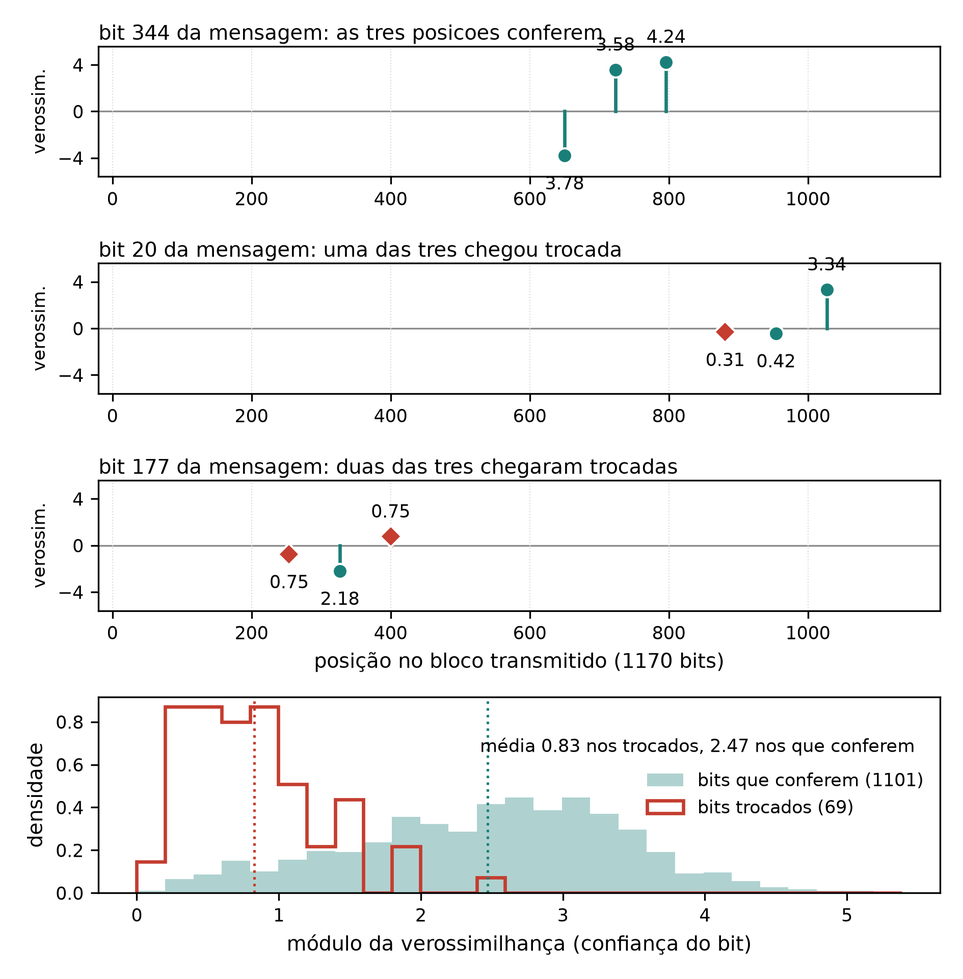
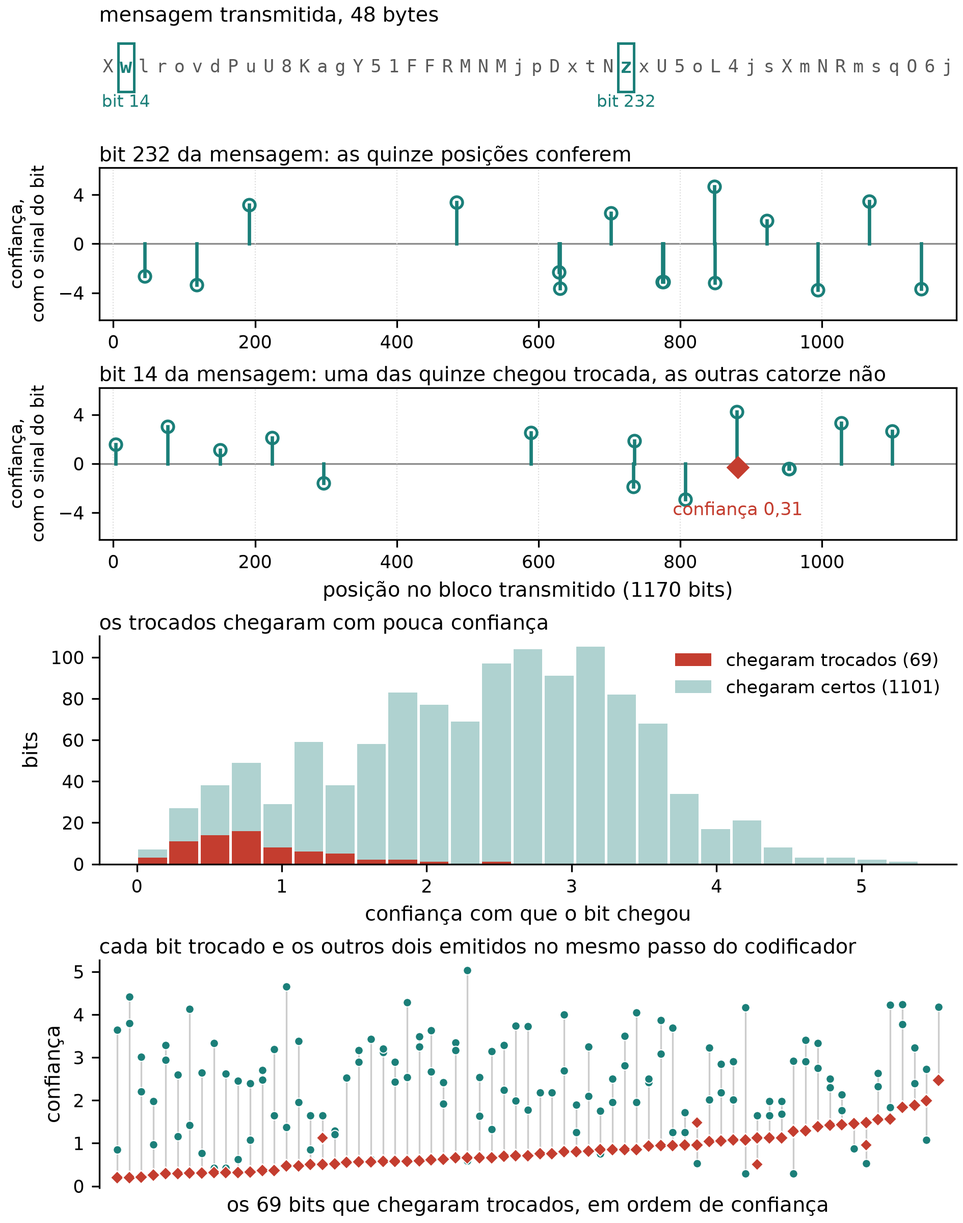
artigo: a figura da correção rastreia as quinze posições, e o texto perde o jargão
A Figura 8 mostrava três posições por bit da mensagem e sugeria que a evidência
sobre aquele bit eram três bits. São quinze: o bit fica na janela por sete
passos e, em cada passo, um subconjunto diferente das três saídas depende dele
(3, 2, 3, 2, 1, 1 e 3, somando quinze). A figura passa a mostrar as quinze, com
marcadores vazados para que posições coladas não se fundam, rótulo só no bit
trocado e vírgula decimal.

O painel dos 69 bits trocados foi para a largura toda, com os dois bits emitidos
no mesmo passo acima de cada um, sem eixo horizontal numerado. O painel de
distribuição volta a ser um histograma só, dos 1170 bits, com a parcela trocada
na base para que as barras vermelhas partam todas do zero.

No texto, a confiança deixa de ser apresentada como propriedade de um trio: ela
é o peso de cada bit recebido quando o decodificador compara hipóteses de
mensagem inteira. O entrelaçador é descrito pelo que faz, escrita em linhas de
dezesseis colunas e leitura por colunas, passo fixo de 73 posições, e não como
embaralhamento.

Limpeza de linguagem pedida pelo autor: saem "sai de graça", "não comprou nada",
"deixa de ser alavanca", "não é peça de museu", "retrocompatibilidade",
"pare-e-espere" e as aberturas que negam antes de apresentar. "Semente" vira
sequência pseudoaleatória ou valor inicial. "Banda" vira "faixa" em todo o
corpo. O parágrafo do prolongamento do som perde a discussão de origem, que
respondia a uma objeção que ninguém fez.
[…]

diff --git a/resultados/14-FEC-REP/figuras/figura_fec_rastro.py b/resultados/14-FEC-REP/figuras/figura_fec_rastro.py
@@ -5,9 +5,20 @@ esquema: cada bit da mensagem entra no codificador e faz sair tres bits, e o
 entrelacamento espalha esses tres pelo bloco. Aqui os tres sao seguidos ate a
 posicao em que foram transmitidos e ate a verossimilhanca com que chegaram.
 
-Tres casos, escolhidos por regra e nao a mao: o bit limpo cuja pior das tres
-confiancas e a maior do bloco, o primeiro bit com uma das tres trocadas, e o
-primeiro com duas trocadas (so tres bits do bloco tem duas).
+Dois casos, escolhidos por regra e nao a mao: o bit limpo cuja pior das tres
+confiancas e a maior do bloco, e o primeiro bit com uma das tres trocadas. O
+caso de duas trocadas foi tirado a pedido do autor: existe no bloco (tres bits
+o tem) mas confunde mais do que mostra, porque o leitor ja entendeu o desempate
+no caso anterior.
+
+A faixa de cima existe para nao se perder a mensagem de vista: os 48 bytes
+transmitidos, com os dois bytes de onde saem os bits seguidos marcados.
+
+Cada bit da mensagem aparece em QUINZE posicoes transmitidas, nao tres: ele
+fica na janela por sete passos e, em cada passo, um subconjunto diferente das
+tres saidas depende dele (3, 2, 3, 2, 1, 1 e 3 saidas, somando quinze). A
+versao anterior desta figura mostrava so as tres do passo em que o bit entra,
+o que sugeria que a evidencia sobre ele eram tres bits. Nao sao.
 
 CUIDADO com o que a figura afirma. No passo em que o bit entra, o codificador
 emite tres bits, e os tres dependem dele e dos seis anteriores. O bit continua
@@ -55,17 +66,41 @@ def carrega():
     return payload, tx, rx
 
 
+# Quais das tres saidas dependem da posicao j+1 da janela. Vem dos proprios
+# polinomios: a saida usa a posicao se o bit correspondente estiver ligado.
+def _saidas_por_posicao():
+    tabela = []
+    for j in range(fec.K):
+        quais = [i for i, poly in enumerate(fec.POLYS_R13)
+                 if (poly >> (fec.K - 1 - j)) & 1]
+        tabela.append(quais)
+    return tabela
+
+
 def rastro(payload, tx, rx):
-    """Para cada bit da mensagem, as tres posicoes transmitidas e o que chegou."""
+    """Para cada bit da mensagem, TODAS as posicoes que dependem dele.
+
+    Um bit fica na janela por sete passos. Em cada passo saem tres bits, e
+    quais deles dependem dele muda conforme a posicao que ele ocupa. Somando,
+    sao quinze posicoes, e nao as tres do passo em que ele entrou.
+    """
     n = len(tx)
     idx = fec.interleave_index(n, 16)      # transmitido[p] = codificado[idx[p]]
     pos = np.zeros(n, dtype=int)
     pos[idx] = np.arange(n)                # pos[c] = posicao transmitida
     errado = (rx > 0).astype(np.int8) != tx
+    por_posicao = _saidas_por_posicao()
+    passos = n // len(fec.POLYS_R13)
     linhas = []
     for k in range(len(payload) * 8):
-        ps = [int(pos[3 * k + i]) for i in range(3)]
-        linhas.append((k, ps, [float(rx[p]) for p in ps], [bool(errado[p]) for p in ps]))
+        ps = []
+        for j, quais in enumerate(por_posicao):
+            passo = k + j
+            if passo >= passos:
+                continue
+            ps += [int(pos[3 * passo + i]) for i in quais]
+        linhas.append((k, ps, [float(rx[p]) for p in ps],
+                       [bool(errado[p]) for p in ps]))
     return linhas, errado
 
 
@@ -76,54 +111,134 @@ def escolhe(linhas):
     casos = [max(limpos, key=lambda r: min(abs(v) for v in r[2]))]
     if um:
         casos.append(um[0])
-    if dois:
-        casos.append(dois[0])
     return casos
 
 
-def desenha(casos, rx, tx, errado, n):
-    fig, eixos = plt.subplots(len(casos) + 1, 1, figsize=(6.3, 6.4),
-                              gridspec_kw={'height_ratios': [1] * len(casos) + [1.5]})
-    for eixo, (k, ps, vs, es) in zip(eixos, casos):
+def faixa_mensagem(eixo, payload, casos):
+    """Os 48 bytes como texto, com os bytes dos bits seguidos em destaque."""
+    texto = payload.decode('ascii', 'replace')
+    destaque = {k // 8 for k, _, _, _ in casos}
+    for i, ch in enumerate(texto):
+        marcado = i in destaque
+        eixo.text(i + 0.5, 0.42, ch, ha='center', va='center',
+                  fontsize=8.5 if not marcado else 9.5,
+                  color='0.35' if not marcado else CONFERE,
+                  fontweight='normal' if not marcado else 'bold',
+                  family='monospace')
+        if marcado:
+            eixo.add_patch(plt.Rectangle((i + 0.06, 0.08), 0.88, 0.68,
+                                         fill=False, ec=CONFERE, lw=1.2))
+    for k, _, _, _ in casos:
+        eixo.annotate(f'bit {k}', (k // 8 + 0.5, 0.05), ha='center', va='top',
+                      fontsize=8, color=CONFERE)
+    eixo.set_xlim(0, len(texto))
+    eixo.set_ylim(-0.5, 1.0)
+    eixo.axis('off')
+    eixo.set_title('mensagem transmitida, 48 bytes', fontsize=9.5, loc='left', pad=2)
+
+
+def companheiros(rx, tx, errado, n):
+    """Para cada bit trocado, a confianca dele e a dos dois companheiros.
+
+    Companheiros sao os outros dois bits emitidos no mesmo passo do
+    codificador, isto e, pelo mesmo bit da mensagem.
+    """
+    idx = fec.interleave_index(n, 16)
+    pos = np.zeros(n, dtype=int)
+    pos[idx] = np.arange(n)
+    mag = np.abs(rx)
+    saida = []
+    for p in np.where(errado)[0]:
+        c = idx[p]
+        k = c // 3
+        outros = [pos[3 * k + i] for i in range(3) if 3 * k + i != c]
+        saida.append((float(mag[p]),
+                      [(float(mag[q]), bool(errado[q])) for q in outros]))
+    return sorted(saida, key=lambda r: r[0])
+
+
+def desenha(casos, rx, tx, errado, n, payload):
+    fig = plt.figure(figsize=(6.3, 8.0), layout='constrained')
+    grade = fig.add_gridspec(len(casos) + 3, 1,
+                             height_ratios=[0.7] + [1] * len(casos) + [1.5, 1.5])
+    eixos = [fig.add_subplot(grade[0, :])]
+    for i in range(len(casos)):
+        eixos.append(fig.add_subplot(grade[i + 1, :]))
+    eixos.append(fig.add_subplot(grade[-2, :]))
+    eixo_disp = fig.add_subplot(grade[-1, :])
+    faixa_mensagem(eixos[0], payload, casos)
+    for eixo, (k, ps, vs, es) in zip(eixos[1:], casos):
         eixo.axhline(0, color='0.55', lw=0.8, zorder=1)
         for p, v, e in zip(ps, vs, es):
             cor = DISCORDA if e else CONFERE
             eixo.plot([p, p], [0, v], color=cor, lw=1.6, zorder=2)
-            eixo.plot([p], [v], marker='D' if e else 'o', color=cor, ms=7,
-                      mec='white', mew=1.0, zorder=3)
-            eixo.annotate(f'{abs(v):.2f}', (p, v), textcoords='offset points',
-                          xytext=(0, 9 if v > 0 else -16), ha='center', fontsize=8.5)
+            eixo.plot([p], [v], marker='D' if e else 'o',
+                      color=cor if e else 'none',
+                      mec=DISCORDA if e else CONFERE,
+                      ms=6.5 if e else 5.5, mew=1.3, zorder=3)
+            if e:
+                texto = f'confiança {abs(v):.2f}'.replace('.', ',')
+                eixo.annotate(texto, (p, v), textcoords='offset points',
+                              xytext=(0, -16), ha='center', va='top',
+                              fontsize=8.5, color=DISCORDA)
         erros = sum(es)
-        rotulo = {0: 'as tres posicoes conferem',
-                  1: 'uma das tres chegou trocada',
-                  2: 'duas das tres chegaram trocadas'}[erros]
-        eixo.set_title(f'bit {k} da mensagem: {rotulo}', fontsize=9.5, loc='left', pad=3)
+        rotulo = ('as quinze posições conferem' if erros == 0
+                  else 'uma das quinze chegou trocada, as outras catorze não'
+                  if erros == 1
+                  else f'{erros} das quinze chegaram trocadas')
+        eixo.set_title(f'bit {k} da mensagem: {rotulo}', fontsize=9.5,
+                       loc='left', pad=3)
         eixo.set_xlim(-20, n + 20)
-        eixo.set_ylim(-5.6, 5.6)
+        eixo.set_ylim(-6.2, 6.2)
         eixo.set_yticks([-4, 0, 4])
-        eixo.set_ylabel('verossim.', fontsize=8.5)
+        eixo.set_ylabel('confiança,\ncom o sinal do bit', fontsize=8.5)
         eixo.tick_params(labelsize=8.5)
         eixo.grid(axis='x', color='0.85', lw=0.5, ls=':')
-    eixos[len(casos) - 1].set_xlabel('posição no bloco transmitido (1170 bits)', fontsize=9.5)
+    eixos[len(casos)].set_xlabel('posição no bloco transmitido (1170 bits)', fontsize=9.5)
 
     eixo = eixos[-1]
-    mag_err = np.abs(rx[errado])
-    mag_ok = np.abs(rx[~errado])
-    faixas = np.linspace(0, max(mag_ok.max(), mag_err.max()), 28)
-    eixo.hist(mag_ok, bins=faixas, density=True, color=CONFERE, alpha=0.35,
-              label=f'bits que conferem ({(~errado).sum()})')
-    eixo.hist(mag_err, bins=faixas, density=True, histtype='step', lw=1.6,
-              color=DISCORDA, label=f'bits trocados ({errado.sum()})')
-    eixo.axvline(mag_err.mean(), color=DISCORDA, ls=':', lw=1.2)
-    eixo.axvline(mag_ok.mean(), color=CONFERE, ls=':', lw=1.2)
-    eixo.set_xlabel('módulo da verossimilhança (confiança do bit)', fontsize=9.5)
-    eixo.set_ylabel('densidade', fontsize=9.5)
+    mag = np.abs(rx)
+    faixas = np.linspace(0, float(mag.max()) + 0.01, 26)
+    n_ok, _ = np.histogram(mag[~errado], bins=faixas)
+    n_err, _ = np.histogram(mag[errado], bins=faixas)
+    centros = (faixas[:-1] + faixas[1:]) / 2
+    largura = (faixas[1] - faixas[0]) * 0.92
+    eixo.bar(centros, n_err, width=largura, color=DISCORDA,
+             label=f'chegaram trocados ({errado.sum()})')
+    eixo.bar(centros, n_ok, width=largura, bottom=n_err, color=CONFERE,
+             alpha=0.35, label=f'chegaram certos ({(~errado).sum()})')
+    eixo.set_xlabel('confiança com que o bit chegou', fontsize=9.5)
+    eixo.set_ylabel('bits', fontsize=9.5)
     eixo.tick_params(labelsize=8.5)
-    eixo.legend(frameon=False, fontsize=8.5)
-    eixo.annotate(f'média {mag_err.mean():.2f} nos trocados,'
-                  f' {mag_ok.mean():.2f} nos que conferem',
-                  (0.97, 0.72), xycoords='axes fraction', ha='right', fontsize=8.5)
-    fig.tight_layout(h_pad=1.1)
+    eixo.legend(frameon=False, fontsize=8.5, loc='upper right')
+    eixo.spines['top'].set_visible(False)
+    eixo.spines['right'].set_visible(False)
+    eixo.set_title('os trocados chegaram com pouca confiança',
+                   fontsize=9.5, loc='left', pad=3)
+
+    pares = companheiros(rx, tx, errado, n)
+    for i, (conf, outros) in enumerate(pares):
+        alturas = [conf] + [c for c, _ in outros]
+        eixo_disp.plot([i, i], [min(alturas), max(alturas)], color='0.8',
+                       lw=0.8, zorder=1)
+        for c, e in outros:
+            eixo_disp.plot([i], [c], marker='o' if not e else 'D',
+                           color=CONFERE if not e else DISCORDA, ms=4,
+                           mec='white', mew=0.5, zorder=2)
+        eixo_disp.plot([i], [conf], marker='D', color=DISCORDA, ms=4.5,
+                       mec='white', mew=0.5, zorder=3)
+    eixo_disp.set_xlim(-1.5, len(pares) + 0.5)
+    eixo_disp.set_xticks([])
+    eixo_disp.set_xlabel('os 69 bits que chegaram trocados, '
+                         'em ordem de confiança', fontsize=9.5)
+    eixo_disp.set_ylabel('confiança', fontsize=9.5)
+    eixo_disp.tick_params(labelsize=8.5)
+    eixo_disp.spines['top'].set_visible(False)
+    eixo_disp.spines['right'].set_visible(False)
+    eixo_disp.spines['bottom'].set_visible(False)
+    eixo_disp.set_title('cada bit trocado e os outros dois emitidos no mesmo '
+                        'passo do codificador', fontsize=9.5, loc='left', pad=3)
+
     for saida in SAIDAS:
         fig.savefig(saida, dpi=300)
         print('escrito', saida)
@@ -138,7 +253,7 @@ def main():
               f'{[round(abs(v), 2) for v in vs]} trocados {es}')
     print(f'{errado.sum()} de {len(tx)} bits trocados '
           f'({100 * errado.mean():.2f}%)')
-    desenha(casos, rx, tx, errado, len(tx))
+    desenha(casos, rx, tx, errado, len(tx), payload)
 
 
 if __name__ == '__main__':

diff --git a/artigo/artigo_modem.md b/artigo/artigo_modem.md
@@ -141,7 +141,7 @@ renumerei porque as secoes 3 a 5 estao em merge com a versao remota; renumerar d
 
 A modulação por chaveamento na frequência, do inglês *frequency shift keying* (FSK), põe dados num canal de voz comutando a portadora entre duas frequências, uma para cada valor do bit. O padrão Bell 202 fixa essas duas frequências em 1200 e 2200 Hz, com transições a 1200 símbolos por segundo, e foi desenvolvido pela AT&T para a rede telefônica (FINNEGAN; BENSON, 2014). Um canal projetado para conduzir voz passa a conduzir bytes sem que nada no meio precise mudar.
 
-O Bell 202 não é peça de museu. O protocolo de transdutor remoto endereçável em barramento, do inglês *Highway Addressable Remote Transducer* (HART), superpõe um sinal FSK de 1200 bits por segundo à malha de 4 a 20 mA que liga o transmissor de campo ao sistema de controle, sem perturbar o valor analógico que ela já carrega (WU, 2023). A retrocompatibilidade é o que o difundiu, pois o instrumento antigo filtra o sinal digital e continua medindo como antes.
+O Bell 202 permanece em uso industrial. O protocolo de transdutor remoto endereçável em barramento, do inglês *Highway Addressable Remote Transducer* (HART), superpõe um sinal FSK de 1200 bits por segundo à malha de 4 a 20 mA que liga o transmissor de campo ao sistema de controle, sem perturbar o valor analógico que ela já carrega (WU, 2023). O instrumento antigo filtra o sinal digital e continua medindo como antes, o que permitiu instalar o protocolo sem trocar os equipamentos já em campo.
 
 O mesmo princípio vale no ar, e Lopes e Aguiar (2001) já observavam por que quase ninguém o usa assim. A comunicação entre máquinas sempre foi mantida longe do som audível por duas boas razões, a taxa baixa diante do fio e do rádio e o incômodo do som. A contrapartida é que o canal de áudio existe em cada aparelho, o que o torna uma opção barata de transferir informação entre dispositivos próximos, sem instalar nada.
 
@@ -232,17 +232,17 @@ para a 4, que mede a concentracao na metade inferior da banda. -->
 
 Transmitir pelo ar é converter a sequência de amostras em variação de pressão, deixá-la atravessar a sala a 343 m/s e reconvertê-la em amostras do outro lado. Entre um conversor e outro estão o amplificador, o alto-falante, o ar, as superfícies que refletem e o microfone. Esse canal não é plano, não é linear e não é silencioso.
 
-O ruído do ambiente ocupa a mesma banda, vindo do tráfego, de máquinas e da fala, em componentes contínuos e em rajada (PUTZ *et al.*, 2026). Ele também não é plano, e os resultados o medem concentrado na metade inferior da banda, de modo que dois tons não disputam com o mesmo fundo.
+O ruído do ambiente ocupa a mesma faixa de frequência, vindo do tráfego, de máquinas e da fala, em componentes contínuos e em rajada (PUTZ *et al.*, 2026). Ele também não é plano, e os resultados o medem concentrado na metade inferior dessa faixa, de modo que dois tons não disputam com o mesmo fundo.
 
-Um alto-falante e um microfone de uso geral respondem bem na banda da fala e perdem eficiência nos extremos. Colocamos os tons entre 700 e 3325 Hz, dentro dessa região, e mesmo ali a resposta está longe de ser plana, como os resultados mostram.
+Um alto-falante e um microfone de uso geral respondem bem na faixa da fala e perdem eficiência nos extremos. Colocamos os tons entre 700 e 3325 Hz, dentro dessa região, e mesmo ali a resposta está longe de ser plana, como os resultados mostram.
 
-O ultrassom fica fora deste trabalho. Exigir inaudibilidade reduz a banda a menos de 4 kHz, onde o hardware de áudio é seletivo (PUTZ *et al.*, 2026), e a absorção do ar cresce com a frequência e encurta o alcance.
+O ultrassom fica fora deste trabalho. Exigir inaudibilidade reduz a faixa disponível a menos de 4 kHz, onde o hardware de áudio é seletivo (PUTZ *et al.*, 2026), e a absorção do ar cresce com a frequência e encurta o alcance.
 
-Dentro da banda o sinal chega ao microfone pelo caminho direto e pelas reflexões nas superfícies da sala, cada uma atrasada pelo percurso que fez. Uma cópia atrasada reforça o som direto em certas frequências e o cancela em outras, conforme a diferença de percurso, e a resposta do canal é um pente de máximos e nulos que a geometria da sala fixa (KUTTRUFF, 2016). Frequências separadas por dezenas de hertz chegam a diferir vários decibéis, e a posição dos nulos muda quando alguém se move, que é a razão de Lopes e Aguiar (2001) não confiarem em muitos níveis de amplitude no ar.
+Dentro dessa faixa o sinal chega ao microfone pelo caminho direto e pelas reflexões nas superfícies da sala, cada uma atrasada pelo percurso que fez. Uma cópia atrasada reforça o som direto em certas frequências e o cancela em outras, conforme a diferença de percurso, e a resposta do canal é um pente de máximos e nulos que a geometria da sala fixa (KUTTRUFF, 2016). Frequências separadas por dezenas de hertz chegam a diferir vários decibéis, e a posição dos nulos muda quando alguém se move, que é a razão de Lopes e Aguiar (2001) não confiarem em muitos níveis de amplitude no ar.
 
 As mesmas reflexões, vistas no tempo, são a reverberação, e enquanto a cauda dura a energia de um símbolo invade o seguinte. Em ambiente fechado o espalhamento chega a dezenas de milissegundos, absorvido por intervalo de guarda (PUTZ *et al.*, 2026). Nesta bancada o som também não cessa junto com a fonte, e os resultados medem o que sobra sem isolar a origem.
 
-A cadeia analógica também não é linear. O cone do alto-falante tem excursão limitada e o amplificador, tensão limitada, então os picos são achatados quando o nível cresce, e o microfone comprime do mesmo modo na outra ponta. A energia retirada dos picos reaparece como harmônicos e intermodulação dentro da própria banda de trabalho, onde nenhum filtro os separa do sinal, e passado esse ponto subir o nível piora a recepção. Não é particularidade desta bancada: Putz *et al.* (2026) mediram distorção não linear na maioria dos aparelhos acima de cerca de 75% do volume máximo.
+A cadeia analógica também não é linear. O cone do alto-falante tem excursão limitada e o amplificador, tensão limitada, então os picos são achatados quando o nível cresce, e o microfone comprime do mesmo modo na outra ponta. A energia retirada dos picos reaparece como harmônicos e intermodulação dentro da própria faixa de trabalho, onde nenhum filtro os separa do sinal, e passado esse ponto subir o nível piora a recepção. Não é particularidade desta bancada: Putz *et al.* (2026) mediram distorção não linear na maioria dos aparelhos acima de cerca de 75% do volume máximo.
 
 Disso decorrem duas exigências. A decisão do receptor não pode depender da amplitude absoluta de nenhum tom, e o nível de operação tem de ser encontrado por medição.
 
@@ -309,7 +309,7 @@ Chamamos M-ária a modulação de ordem $M$, em que cada símbolo é um tom esco
 
 $$R_b = R_s \log_2 M \tag{1}$$
 
-Nela, $R_b$ é a taxa de bits, $R_s$ é a taxa de símbolos em bauds e $M$ é o número de frequências. Subir $M$ é o caminho para subir $R_b$, com a taxa de símbolos presa pela banda e pelas reflexões. Construímos quatro formas, e o que muda entre elas é quanto a decisão depende da amplitude. Elas ocupam as duas famílias que Lopes e Aguiar (2001) já haviam formulado, a de um tom por símbolo e a de $k$ tons simultâneos.
+Nela, $R_b$ é a taxa de bits, $R_s$ é a taxa de símbolos em bauds e $M$ é o número de frequências. Subir $M$ é o caminho para subir $R_b$, com a taxa de símbolos presa pela faixa disponível e pelas reflexões. Construímos quatro formas, e o que muda entre elas é quanto a decisão depende da amplitude. Elas ocupam as duas famílias que Lopes e Aguiar (2001) já haviam formulado, a de um tom por símbolo e a de $k$ tons simultâneos.
 
 A 2-FSK usa os dois tons do padrão Bell 202, 1200 e 2200 Hz, e um bit por símbolo. A 5×2-FSK votada soa cinco pares de tons a cada símbolo, todos carregando o mesmo bit, e a maioria decide.
 
@@ -363,7 +363,7 @@ Nela, $E_k$ é a energia no tom $k$ e $P_k$ é a média corrente dessa energia, 
 
 O relógio das três formas de 100 bauds vem de uma malha de adiantamento e atraso: a cada símbolo o receptor pontua três janelas deslocadas de um oitavo de símbolo, e corrige o instante do seguinte em um trinta e dois avos.
 
-As primeiras 72 amostras de 480 são descartadas como guarda, 15% do símbolo, e a decisão se faz sobre as 408 restantes, onde a cauda do símbolo anterior já não está.
+As primeiras 72 amostras de 480 são descartadas como guarda, 15% do símbolo, e a decisão se faz sobre as 408 restantes, já livres da cauda do símbolo anterior.
 
 O preâmbulo é alternado, porque a malha trava em transições, e a rajada fecha com cauda ociosa, sem a qual o último byte fica preso.
 
@@ -411,9 +411,9 @@ O bloco é localizado por uma palavra de referência de 31 bits, que viaja sem c
 
 Acima do bloco corrigido, o arquivo vai em pacotes de doze bytes de guia, um byte de sincronismo, número de sequência, comprimento, carga de até 255 bytes e dois bytes de verificação de redundância cíclica, do inglês *cyclic redundancy check* (CRC).
 
-O corpo e o CRC são embaralhados por um gerador de semente fixa chaveado pela posição, o que desfaz padrões repetidos que privariam o relógio de transições.
+O corpo e o CRC são somados a uma sequência pseudoaleatória fixa, dependente da posição e idêntica nas duas pontas, o que desfaz padrões repetidos que privariam o relógio de transições.
 
-A retransmissão automática, do inglês *automatic repeat request* (ARQ), é pare-e-espere dirigida pelo receptor, que pede um pacote por vez e descarta o áudio capturado antes de o pedido sair. São até quatro tentativas por pacote, o que não chega vira zeros, que preservam o deslocamento dos bytes seguintes, e um CRC de 32 bits sobre o arquivo decide se ele vale.
+A retransmissão automática, do inglês *automatic repeat request* (ARQ), é dirigida pelo receptor: ele pede um pacote, espera a resposta chegar e só então pede o seguinte, e descarta o áudio capturado antes de o pedido sair. São até quatro tentativas por pacote, o que não chega vira zeros, que preservam o deslocamento dos bytes seguintes, e um CRC de 32 bits sobre o arquivo decide se ele vale.
 
 Acima disso a aplicação vê uma porta serial virtual, sem detecção de erro nenhuma: o modem é a linha burra que o ecossistema serial espera, e quem corrige está abaixo dela.
 
@@ -473,7 +473,7 @@ que cada correcao reconferiu:
   Notacao fixa: "a primeira forma medida" e "a segunda" viraram 5x2-FSK votada e 16-FSK.
 -->
 
-Os ensaios usam duas máquinas na mesma sala, cada uma com alto-falante e microfone próprios. Um cabo serial entre elas automatiza o ensaio e não conduz dado da medida: a carga é gerada dos dois lados a partir de uma semente combinada por ele, e os bytes pontuados viajaram só pelo ar. As gravações das Figuras 4 a 8 usaram o bloco codificado repetido duas vezes.
+Os ensaios usam duas máquinas na mesma sala, cada uma com alto-falante e microfone próprios. Um cabo serial entre elas automatiza o ensaio e não conduz dado da medida: a carga é gerada dos dois lados a partir de um valor inicial combinado por ele, e os bytes pontuados viajaram só pelo ar. As gravações das Figuras 4 a 8 usaram o bloco codificado repetido duas vezes.
 
 A Figura 1 mostra o ruído da sala com o enlace parado, média de quatro gravações de oito segundos em janelas de 50 Hz. O piso não é plano: concentra-se abaixo de 2 kHz e varia 27 dB sob os dezesseis tons da 16-FSK, de −67,6 a −94,8 dBFS. Comparar níveis absolutos entre tons leria essa diferença como sinal, e por isso cada tom é medido contra o próprio piso.
 
@@ -485,7 +485,7 @@ A Figura 2 mostra o que o detector da 16-FSK mede enquanto a máquina transmisso
 ![](figuras/deteccao-tom.png "0.95")
 Figura 2 - Nível nas dezesseis sondas com um tom de 1700 Hz transmitido, contra a sala parada e um seno sintético. O alargamento do pico é da janela de análise.
 
-A Figura 3 mostra uma varredura de 300 a 6000 Hz gravada em seis segundos, e nela o alargamento reaparece como duas diagonais. São o segundo e o terceiro harmônico, em mediana 30,5 e 42,2 dB abaixo da fundamental, frequências que ninguém transmitiu e que dentro da banda de trabalho são indistinguíveis de sinal.
+A Figura 3 mostra uma varredura de 300 a 6000 Hz gravada em seis segundos, e nela o alargamento reaparece como duas diagonais. São o segundo e o terceiro harmônico, em mediana 30,5 e 42,2 dB abaixo da fundamental, frequências que ninguém transmitiu e que dentro da faixa de trabalho são indistinguíveis de sinal.
 
 ![](figuras/varredura.png "0.95")
 Figura 3 - Varredura de 300 a 6000 Hz, em janela de 4096 amostras. As diagonais são o segundo e o terceiro harmônico, e os riscos verticais são sons da sala.
@@ -495,11 +495,11 @@ Essas sombras posicionam os tons. Os dezesseis ocupam de 888 a 3325 Hz espaçado
 O nível ao longo da faixa também não é uniforme. Medido pela mesma varredura em passos de 74 Hz, varia 23,7 dB entre o melhor e o pior ponto, com até 9,4 dB entre pontos vizinhos.
 
 
-Depois que a varredura acaba o nível cai cerca de 36 dB ao longo de meio segundo e alcança o piso da sala por volta de 0,8 s. O desligamento do transmissor leva 10 ms, então a cauda não é dele, e uma gravação só não separa a sala do alto-falante sem fio. É contra essa cauda que existe o intervalo de guarda descartado no início de cada símbolo.
+Depois que a varredura termina o som não cessa junto. O nível cai cerca de 36 dB ao longo de meio segundo e só alcança o piso da sala por volta de 0,8 s. É esse prolongamento que o intervalo de guarda descarta no início de cada símbolo.
 
 A 5×2-FSK votada reparte a decisão entre cinco pares de tons. Cinco frequências soam a cada símbolo, uma por par, cada par decide pelo tom que chegou mais forte, e a maioria dos cinco dá o bit. São cem símbolos por segundo, um bit por símbolo, com os primeiros 15% de cada símbolo descartados como guarda.
 
-A polaridade alterna ao longo da banda. Nos pares de 700, 1540 e 2380 Hz o tom mais grave significa 0, e nos de 1120 e 1960 Hz significa 1, então os dois acordes ficam entrelaçados e com quase a mesma frequência média.
+A polaridade alterna ao longo da faixa. Nos pares de 700, 1540 e 2380 Hz o tom mais grave significa 0, e nos de 1120 e 1960 Hz significa 1, então os dois acordes ficam entrelaçados e com quase a mesma frequência média.
 
 A Figura 4 mostra a energia nas dez frequências em dois símbolos da carga, e quem decide é a comparação dentro de cada par, nunca o nível absoluto. Em trinta símbolos consecutivos da mesma transmissão todos os bits saíram certos, e em vinte e dois deles ao menos um par votou contra os demais.
 
@@ -525,22 +525,24 @@ Figura 7 - O mesmo trecho, com as fronteiras de símbolo que o receptor usou e a
 
 Nas três gravações válidas os 48 bytes chegaram íntegros. Antes da correção de erros o tom detectado coincidiu com o transmitido em 72,5% a 89,5% dos símbolos, e 85,2% a 94,5% dos bits chegaram certos.
 
-Com a cadeia analógica linear o nível deixa de ser alavanca. Variar o ganho do transmissor de 1,00 a 0,25 não moveu a recuperação, e as doze gravações leram de 96% a 98% dos bits. O mesmo corte de nível, na cadeia saturada, separou uma gravação íntegra de três de todas as três.
+Com a cadeia analógica linear o nível de transmissão deixa de influir. Variar o ganho do transmissor de 1,00 a 0,25 não alterou a recuperação, e as doze gravações leram de 96% a 98% dos bits. O mesmo corte de nível, na cadeia saturada, alterou o resultado de uma gravação íntegra em três para as três.
 
-Para cada bit da mensagem o transmissor emite três, calculados a partir dele e dos seis anteriores. O receptor não decide bit a bit: entre as sequências que o codificador poderia ter produzido, escolhe a mais provável diante do que chegou, pesando cada bit pela confiança com que o demodulador o entregou.
+O transmissor mantém uma janela com os sete últimos bits da mensagem e, a cada bit que entra nela, emite três, cada um a soma módulo dois de um recorte diferente dessa janela. O que viaja pelo ar são esses três, e não os bits da mensagem. A janela desliza de um em um, então cada bit da mensagem permanece nela por sete passos e deixa marca em quinze bits emitidos, sempre misturado aos vizinhos. É um código convolucional de comprimento de restrição sete e taxa um terço, com polinômios geradores 171, 133 e 165 em octal, padronizados para uso espacial e adotados em telefonia celular e em redes locais sem fio. (CITAR: códigos convolucionais, Elias; padronização CCSDS; uso em GSM e 802.11)
 
-A Figura 8 acompanha três bits da mensagem até as posições onde eles foram transmitidos. Cada bit que entra no codificador faz sair três, e o entrelaçamento os afasta, de modo que as três posições ficam a setenta e três bits uma da outra e nenhuma perturbação curta atinge mais de uma. No primeiro bit as três chegaram certas e confiantes. No segundo uma delas chegou trocada, com módulo 0,31 contra 3,34 da mais forte. No terceiro duas das três chegaram trocadas, ambas rentes ao zero. Os três bits saíram corretos.
+O receptor refaz o caminho do codificador para as hipóteses possíveis, compara o que cada uma teria emitido com o que chegou, acumula o custo das discordâncias e descarta as hipóteses que já perderam. Ao fim fica com a de menor custo. Trocar um bit da mensagem muda quinze bits emitidos, então uma hipótese errada discorda em quinze lugares para explicar um erro em um. É o algoritmo de Viterbi, e o custo de cada discordância é a confiança com que o bit chegou, o que se chama decisão suave. (CITAR: Viterbi 1967; decodificação de decisão suave)
+
+A Figura 8 acompanha dois bits da mensagem até as quinze posições que dependem de cada um. O entrelaçador escreve os bits codificados em linhas de dezesseis colunas e os lê por colunas, o que separa posições consecutivas do código por 73 lugares no ar, passo fixo e conhecido das duas pontas. Uma perturbação curta atinge no máximo uma ou duas das quinze. No primeiro bit as quinze chegaram certas; no segundo, uma chegou trocada e fraca, confiança 0,31 contra 4,23 da mais forte. Os dois bits saíram corretos.
 
 ![](figuras/fec-rastro.png "0.95")
-Figura 8 - Os três bits emitidos por um bit da mensagem, seguidos até a verossimilhança com que chegaram, com losango no que chegou trocado. Abaixo, o módulo da verossimilhança nos 69 trocados e nos 1101 que conferem.
+Figura 8 - As quinze posições transmitidas que dependem de um bit da mensagem, com a confiança com que cada uma chegou; losango marca a que chegou trocada. No meio, os 1170 bits distribuídos pela confiança com que chegaram, com a parcela trocada destacada. Embaixo, cada um dos 69 bits trocados ao lado dos outros dois emitidos no mesmo passo do codificador, em ordem de confiança.
 
-Sobre esses 48 bytes, que ocupam 1170 bits no ar, sessenta e nove chegaram trocados, 5,9%, e a mensagem saiu idêntica. O painel inferior mostra por quê: os trocados chegaram com módulo médio de 0,83 contra 2,47 nos que conferem, ou seja, o erro se concentra onde o demodulador já tinha pouca certeza, e é essa diferença que o decodificador usa. O decodificador não decide cada bit olhando apenas as três posições da figura, e sim escolhe o caminho inteiro que melhor explica o bloco; as três posições são por onde aquele bit entrou nessa conta.
+Desses 1170 bits, sessenta e nove chegaram trocados, 5,9%, e a mensagem saiu idêntica. O erro se concentra na baixa confiança: abaixo de 0,5 quatro em cada dez estão trocados, acima de 2 é um em 763. A confiança é o peso de cada bit recebido na comparação entre hipóteses de mensagem inteira, e não a decisão de um bit isolado. Discordar de um bit fraco custa pouco, de um forte custa muito, e um erro confiante do canal não vira a conta enquanto as demais posições apontarem a mensagem certa. Em 67 dos 69 casos um dos bits emitidos no mesmo passo chegou mais confiante; nos outros dois a mensagem também saiu correta.
 
-Repetir o bloco codificado não comprou nada nesta sala. Nas doze gravações, quatro por ponto, uma, duas e quatro repetições entregaram todos os blocos íntegros com o mesmo acerto de bits, e a taxa útil caiu de 11,3 para 3,7 bytes por segundo. O canal operou entre 5,9% e 9,6% de bits codificados errados, e a taxa um terço com decisão suave tolera 10% em simulação, então a margem já bastava. A repetição levaria esse limite a 19%, numa sala pior que esta.
+Repetir o bloco codificado não mudou o resultado. Nas doze gravações, quatro por ponto, uma, duas e quatro repetições entregaram todos os blocos íntegros com o mesmo acerto de bits, e a taxa útil caiu de 11,3 para 3,7 bytes por segundo. O canal operou entre 5,9% e 9,6% de bits codificados errados, dentro dos 10% que a taxa um terço com decisão suave tolera em simulação. A repetição eleva esse limite a 19%, aplicável a uma sala mais ruidosa que esta.
 
-A decisão suave é o que rende, e sai de graça, porque a verossimilhança é um número que o demodulador já calculou: na mesma taxa de código ela leva a tolerância simulada de menos de 2% para 5%.
+A decisão suave não custa transmissão nem processamento adicional, pois a confiança já é calculada pelo demodulador, e na mesma taxa de código leva a tolerância simulada de menos de 2% para 5%.
 
-Um bloco corrigido não é ainda um arquivo. Os dados são partidos em pacotes com número de sequência, comprimento e verificação de redundância cíclica, e o receptor pede um pacote, confere, e só então pede o seguinte, repetindo enquanto a verificação falhar. Uma imagem de 1334 bytes chegou idêntica ao enviado em duas corridas, vinte e um pacotes de 64 bytes a 6,8 bytes por segundo sem nenhuma retransmissão, e onze pacotes de 128 bytes a 7,2 bytes por segundo com três. A taxa fica abaixo dos 11,3 do bloco por causa do preâmbulo de cada pacote, do cabeçalho, da verificação e do intervalo entre confirmar um pacote e pedir o próximo.
+Acima do bloco, os dados são partidos em pacotes com número de sequência, comprimento e verificação de redundância cíclica. O receptor pede um pacote, confere, e só então pede o seguinte, repetindo o pedido enquanto a verificação falhar. Uma imagem de 1334 bytes chegou idêntica ao enviado em duas corridas, vinte e um pacotes de 64 bytes a 6,8 bytes por segundo sem nenhuma retransmissão, e onze pacotes de 128 bytes a 7,2 bytes por segundo com três. A taxa fica abaixo dos 11,3 do bloco por causa do preâmbulo de cada pacote, do cabeçalho, da verificação e do intervalo entre confirmar um pacote e pedir o próximo.
 
 ## 6 CONSIDERAÇÕES FINAIS
 
